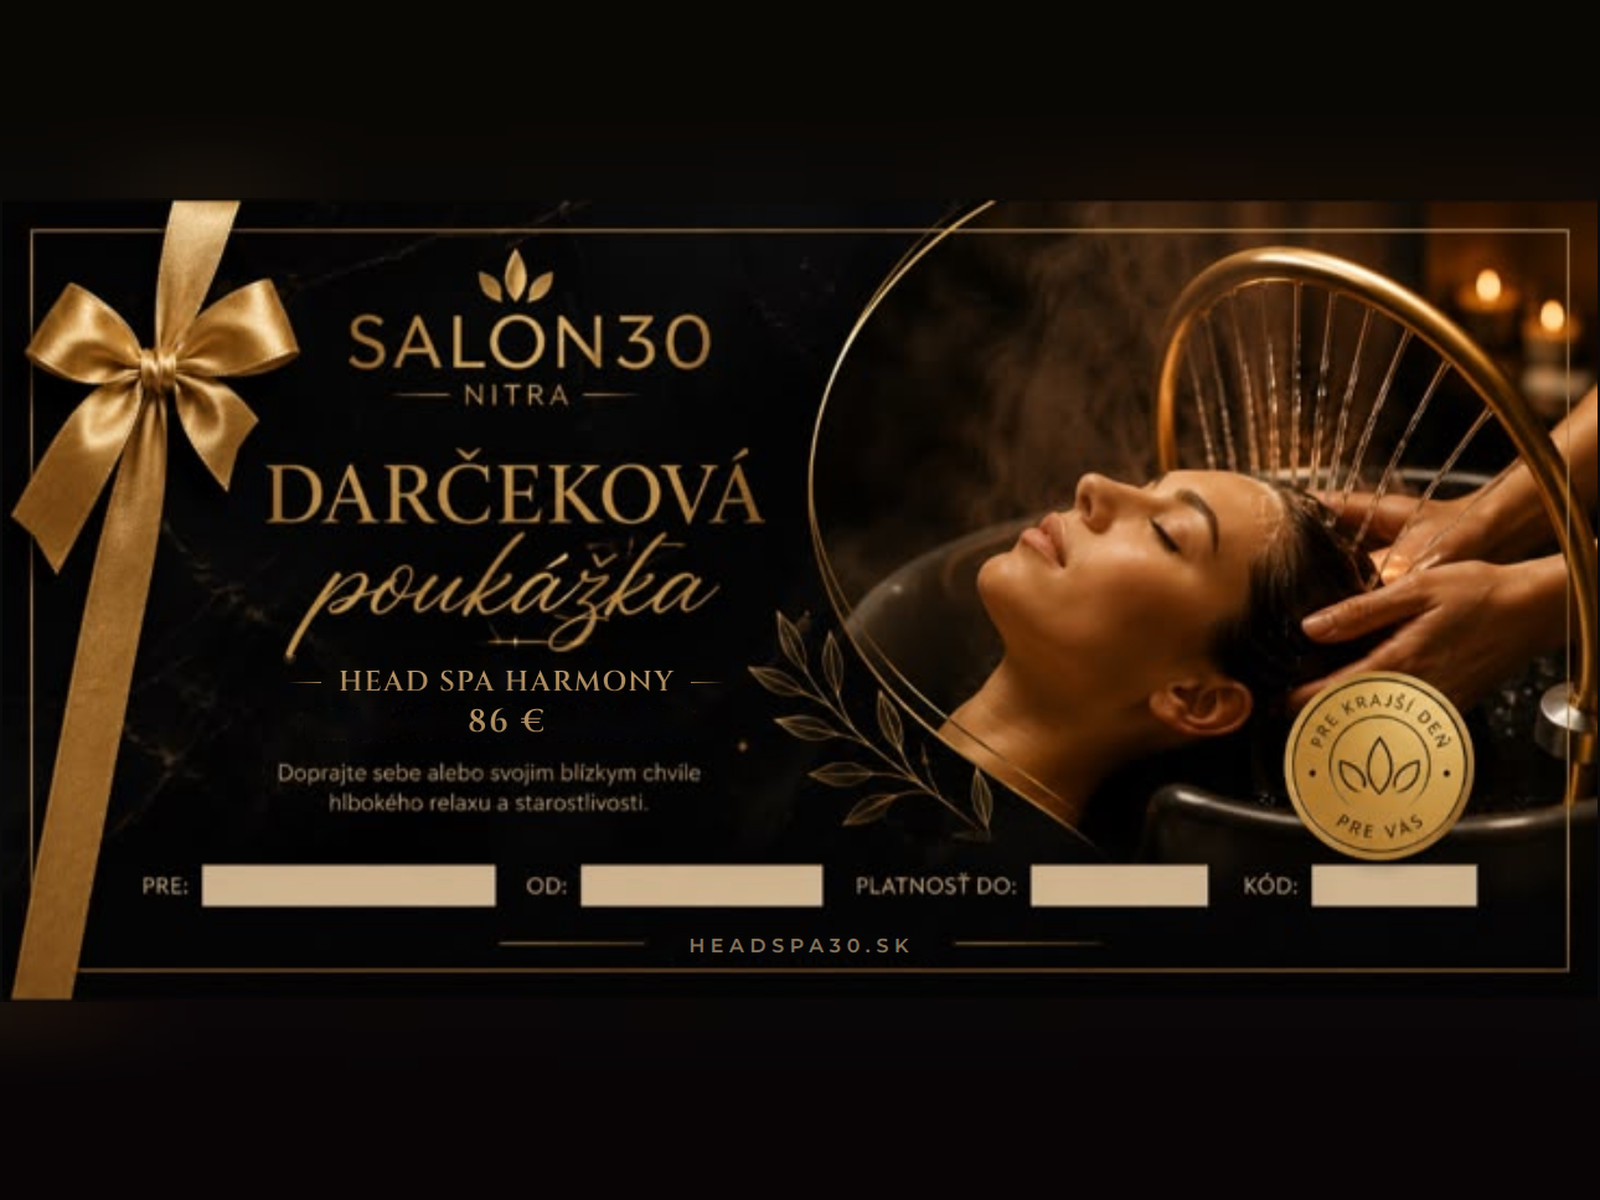
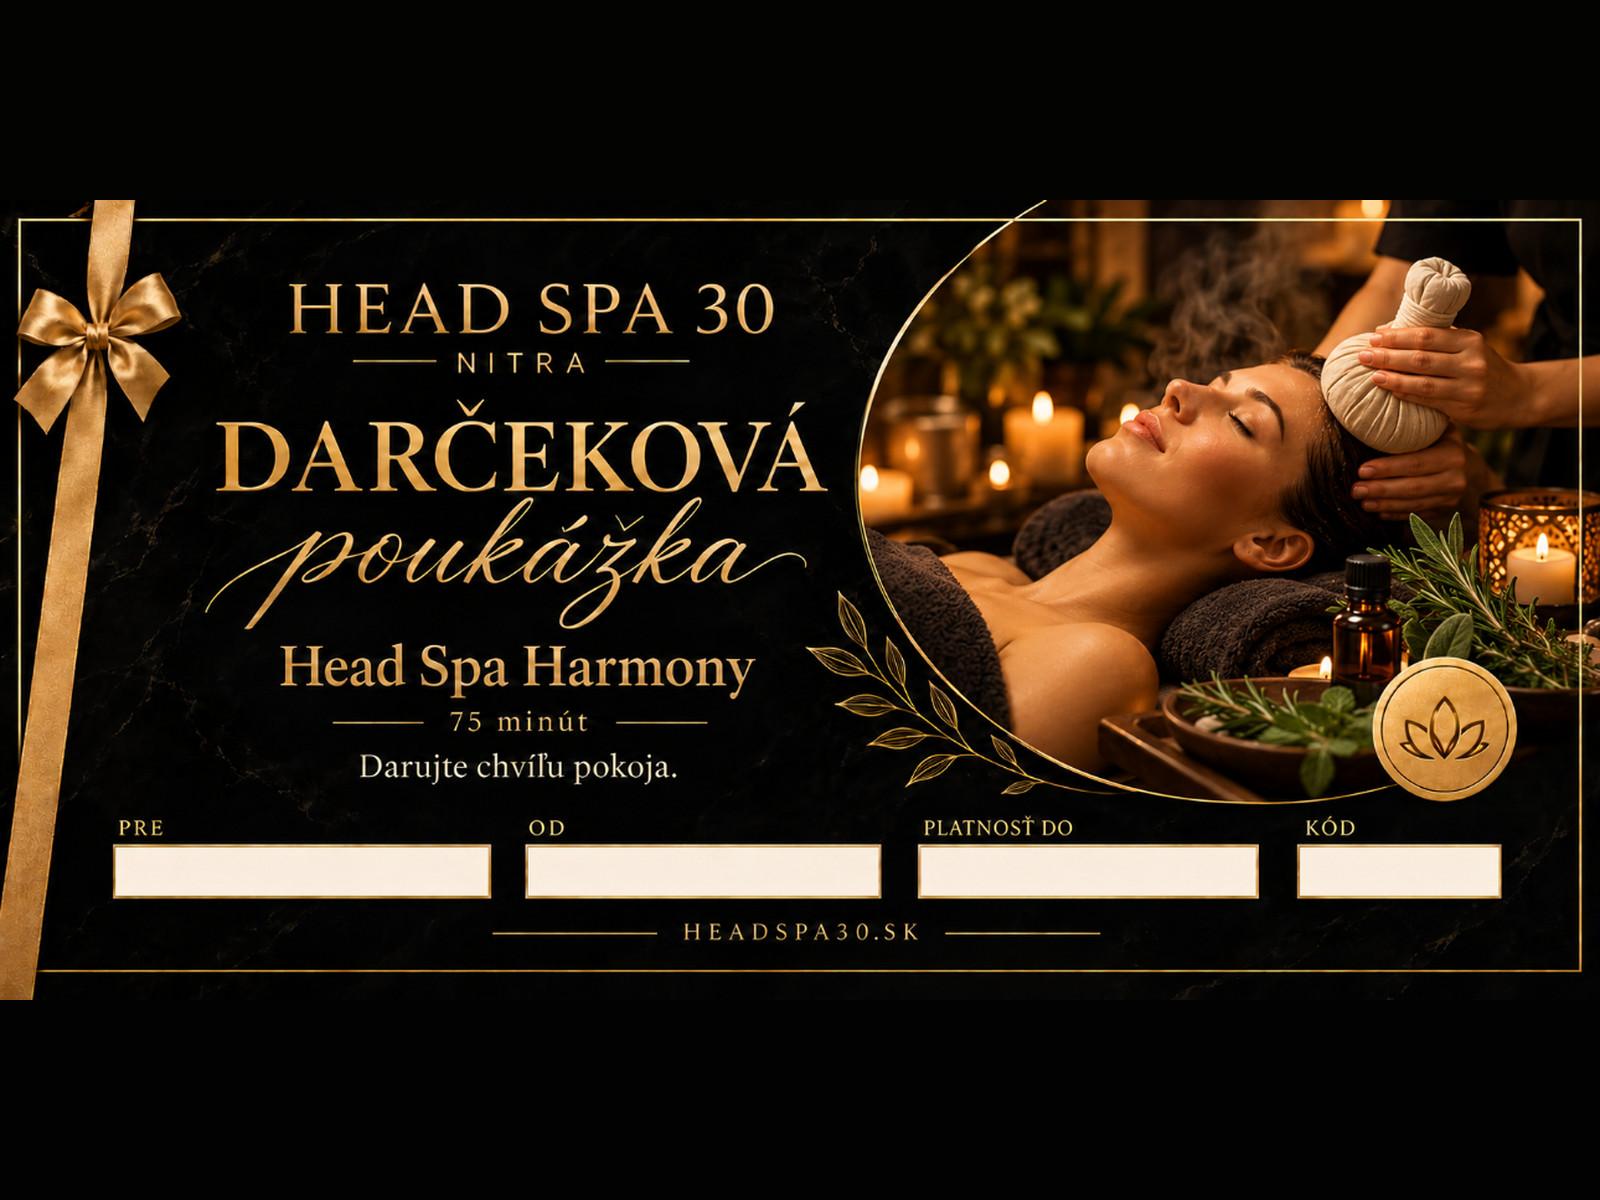
HEAD SPA 30: ďalších sedem poukážok od salónu pre obchod Booqme
Salón poslal hotové poukážky HEAD SPA 30 aj pre Head Spa Relax, Harmony,
Beauty Ritual, Fruit & Fresh Ritual, Signature Ritual, Gentlemen Deep Scalp
Ritual a Gentlemen Signature Experience. Obrázky do Booqme pre ne nahrádzajú
šablónu, takže od salónu je 13 zo 17 poukazov; podľa šablóny ostávajú
Head Spa Classic, Gentlemen Head Spa, Little Fruit Head Spa a Spoločný
Head Spa rituál. Gentlemen Harmony Ritual a Hĺbkový rituál pre pokožku hlavy
prišli aj v druhej podobe (salon/varianty/), používa sa tá, ktorá je na webe.
Web sa nemení.

diff --git a/docs/poukazky/salon/README.md b/docs/poukazky/salon/README.md
@@ -1,10 +1,13 @@
 # Poukážky od salónu
 
-Hotové poukážky HEAD SPA 30, ktoré poslal salón (október 2026): fotka rituálu, názov, dĺžka
-a veta Darujte chvíľu pokoja, v pätičke HEADSPA30.SK. Každá je 1290 × 645 px, vyrezaná bez úprav
+Hotové poukážky HEAD SPA 30, ktoré poslal salón (október 2026), 13 rituálov: fotka rituálu, názov,
+dĺžka a veta Darujte chvíľu pokoja, v pätičke HEADSPA30.SK. Prišli v dvoch podobách (veľká mašľa;
+malá mašľa s lotosovou pečaťou). Gentlemen Harmony Ritual a Hĺbkový rituál pre pokožku hlavy prišli
+v oboch; používa sa podoba, ktorá je aj na webe, druhá je v `varianty/`. Každá je 1290 × 645 px, vyrezaná bez úprav
 zo snímky obrazovky, v ktorej prišla. Názov súboru je `subor` z `../sablona/ritualy.json`.
 
 V `ritualy.json` majú tieto rituály `"salon": true`, takže `python3 docs/poukazky/sablona/export.py`
 z nich robí obrázky do obchodu Booqme (`../sablona/booqme/`) a keďže majú aj `"web": true`, aj ukážky
 na web (`assets/img/poukaz/`).
-Ostatné rituály majú poukážku podľa šablóny salónu (`../sablona/`).
+Ostatné štyri rituály (Head Spa Classic, Gentlemen Head Spa, Little Fruit Head Spa, Spoločný Head Spa
+rituál) majú poukážku podľa šablóny salónu (`../sablona/`).

diff --git a/docs/poukazky/README.md b/docs/poukazky/README.md
@@ -2,7 +2,7 @@
 
 **Platí `sablona/`:** salón chce poukážky presne podľa svojej šablóny, na každej len názov rituálu
 a cenu. Všetkých 17 je v obchode Booqme (`sablona/booqme/`), na webe je šesť ukážok
-(`assets/img/poukaz/`), postup je v `sablona/README.md`. Šesť poukážok poslal salón v novej podobe
+(`assets/img/poukaz/`), postup je v `sablona/README.md`. Trinásť poukážok poslal salón v novej podobe
 (`salon/`: HEAD SPA 30, fotka rituálu, dĺžka); tie nahrádzajú šablónu pri svojich rituáloch. Návrh nižšie (`dl/`, vlastné fotky ku každému rituálu, bez ceny) sa už
 nepoužíva.
 

diff --git a/docs/poukazky/sablona/README.md b/docs/poukazky/sablona/README.md
@@ -1,7 +1,7 @@
 # Darčekové poukážky podľa šablóny salónu
 
 Poukážky na jednotlivé rituály sú presne pôvodná šablóna salónu (Salon 30 Nitra, fotka Head Spa,
-zlatá mašľa a pečať), okrem šiestich, ktoré salón poslal hotové (`../salon/`). Mení sa na nich len:
+zlatá mašľa a pečať), okrem trinástich, ktoré salón poslal hotové (`../salon/`). Mení sa na nich len:
 
 - **názov rituálu** namiesto nápisu HEAD SPA (veľkými písmenami, dlhé názvy na dva riadky),
 - **cena** pod názvom namiesto riadku RELAX • OBNOVA • HARMÓNIA,
